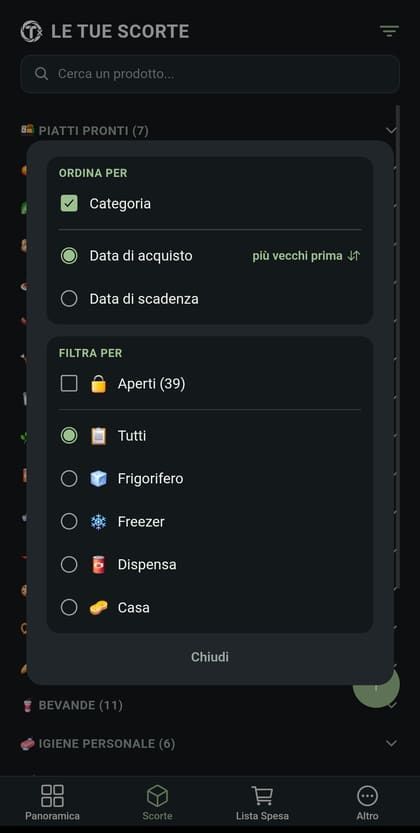
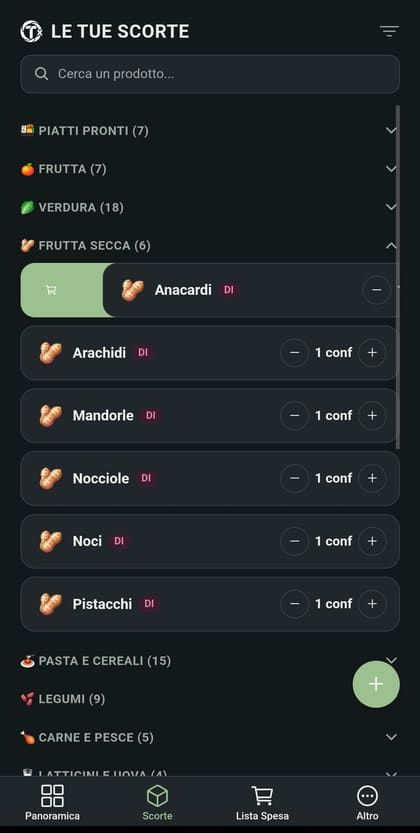
Slide dedicate: Filtri e ordinamento, Aggiungi prodotto, screenshot Scansione prodotto (#222)
- Ripristinato lo screenshot originale della slide "Scorte" (lista
  prodotti), spostando il pannello filtri/ordinamento in una slide
  separata "Filtri e ordinamento" subito dopo - erano due cose diverse,
  non dovevano condividere la stessa slide.
- Nuova slide "Aggiungi prodotto" con lo screenshot del form "Nuovo
  prodotto" (zona, categoria, quantita', scadenza/consumare entro,
  prodotto aperto).
- La slide "Scansione prodotto", che finora aveva solo l'icona di
  fallback, ha ora lo screenshot reale del popup "Scansiona prodotto".

Claude-Session: https://claude.ai/code/session_0124KDiTTkTm4SeJm2jJDzTH

diff --git a/src/i18n/translations.ts b/src/i18n/translations.ts
@@ -1111,9 +1111,21 @@ const ENTRIES: Record<string, EntryTriple> = {
   },
   'household.guide.stock.title': { it: 'Scorte', en: 'Stock', es: 'Existencias' },
   'household.guide.stock.body': {
-    it: "L'inventario di casa diviso per zona (Frigo, Freezer, Dispensa...): aggiungi prodotti, regola le quantità con un tocco e tieni traccia di scadenze e apertura. Scorri un prodotto verso destra per aggiungerlo alla lista della spesa. Con l'icona in alto a destra ordini per categoria, data di acquisto o di scadenza, e filtri per zona o solo i prodotti aperti.",
-    en: 'Your home inventory split by zone (Fridge, Freezer, Pantry...): add products, adjust quantities with a tap, and track expiry and opened dates. Swipe a product right to add it to the shopping list. Use the icon top-right to sort by category, purchase date or expiry date, and filter by zone or only opened products.',
-    es: 'El inventario de casa dividido por zona (Nevera, Congelador, Despensa...): añade productos, ajusta cantidades con un toque y controla caducidad y apertura. Desliza un producto hacia la derecha para añadirlo a la lista de la compra. Con el icono arriba a la derecha ordenas por categoría, fecha de compra o de caducidad, y filtras por zona o solo los productos abiertos.',
+    it: "L'inventario di casa diviso per zona (Frigo, Freezer, Dispensa...): aggiungi prodotti, regola le quantità con un tocco e tieni traccia di scadenze e apertura. Scorri un prodotto verso destra per aggiungerlo alla lista della spesa.",
+    en: 'Your home inventory split by zone (Fridge, Freezer, Pantry...): add products, adjust quantities with a tap, and track expiry and opened dates. Swipe a product right to add it to the shopping list.',
+    es: 'El inventario de casa dividido por zona (Nevera, Congelador, Despensa...): añade productos, ajusta cantidades con un toque y controla caducidad y apertura. Desliza un producto hacia la derecha para añadirlo a la lista de la compra.',
+  },
+  'household.guide.addProduct.title': { it: 'Aggiungi prodotto', en: 'Add product', es: 'Añadir producto' },
+  'household.guide.addProduct.body': {
+    it: 'Per aggiungere un prodotto scegli nome, zona, categoria e quantità; imposta la scadenza (o "Consumare entro" per i piatti pronti) e, se vuoi, segna "Prodotto aperto" per un promemoria di quando consumarlo. L\'icona fotocamera in alto compila tutto da una foto.',
+    en: 'To add a product, pick its name, zone, category and quantity; set the expiry date (or "Consume within" for ready meals) and, if you like, tick "Opened" for a reminder of when to use it. The camera icon at the top fills it all in from a photo.',
+    es: 'Para añadir un producto elige nombre, zona, categoría y cantidad; pon la fecha de caducidad (o "Consumir en" para platos preparados) y, si quieres, marca "Abierto" para un recordatorio de cuándo consumirlo. El icono de la cámara arriba lo rellena todo a partir de una foto.',
+  },
+  'household.guide.filters.title': { it: 'Filtri e ordinamento', en: 'Filters and sorting', es: 'Filtros y orden' },
+  'household.guide.filters.body': {
+    it: "Nelle Scorte, l'icona in alto a destra apre il menu per ordinare per categoria, data di acquisto o di scadenza, e per filtrare per zona o solo i prodotti aperti.",
+    en: 'In Stock, the icon top-right opens the menu to sort by category, purchase date or expiry date, and to filter by zone or only opened products.',
+    es: 'En Existencias, el icono arriba a la derecha abre el menú para ordenar por categoría, fecha de compra o de caducidad, y para filtrar por zona o solo los productos abiertos.',
   },
   'household.guide.shopping.title': { it: 'Lista della spesa', en: 'Shopping list', es: 'Lista de la compra' },
   'household.guide.shopping.body': {

diff --git a/src/components/AppGuideModal.tsx b/src/components/AppGuideModal.tsx
@@ -80,6 +80,24 @@ const GUIDE_SLIDES: GuideSlideDef[] = [
     imageDark: require('../../assets/guide/stock-dark.jpg'),
   },
   {
+    key: 'addProduct',
+    icon: 'create-outline',
+    badgeIcon: 'time-outline',
+    titleKey: 'household.guide.addProduct.title',
+    bodyKey: 'household.guide.addProduct.body',
+    imageLight: require('../../assets/guide/add-product-light.jpg'),
+    imageDark: require('../../assets/guide/add-product-dark.jpg'),
+  },
+  {
+    key: 'filters',
+    icon: 'funnel-outline',
+    badgeIcon: 'swap-vertical-outline',
+    titleKey: 'household.guide.filters.title',
+    bodyKey: 'household.guide.filters.body',
+    imageLight: require('../../assets/guide/filters-light.jpg'),
+    imageDark: require('../../assets/guide/filters-dark.jpg'),
+  },
+  {
     key: 'shopping',
     icon: 'cart-outline',
     badgeIcon: 'checkmark-done-outline',
@@ -98,7 +116,15 @@ const GUIDE_SLIDES: GuideSlideDef[] = [
     imageDark: require('../../assets/guide/purchased-dark.jpg'),
   },
   { key: 'receiptScan', icon: 'receipt-outline', badgeIcon: 'camera-outline', titleKey: 'household.guide.receiptScan.title', bodyKey: 'household.guide.receiptScan.body' },
-  { key: 'productScan', icon: 'pricetag-outline', badgeIcon: 'camera-outline', titleKey: 'household.guide.productScan.title', bodyKey: 'household.guide.productScan.body' },
+  {
+    key: 'productScan',
+    icon: 'pricetag-outline',
+    badgeIcon: 'camera-outline',
+    titleKey: 'household.guide.productScan.title',
+    bodyKey: 'household.guide.productScan.body',
+    imageLight: require('../../assets/guide/product-scan-light.jpg'),
+    imageDark: require('../../assets/guide/product-scan-dark.jpg'),
+  },
   { key: 'cleaning', icon: 'sparkles-outline', badgeIcon: 'calendar-outline', titleKey: 'household.guide.cleaning.title', bodyKey: 'household.guide.cleaning.body' },
   { key: 'waste', icon: 'trash-outline', badgeIcon: 'refresh-outline', titleKey: 'household.guide.waste.title', bodyKey: 'household.guide.waste.body' },
   { key: 'expenses', icon: 'cash-outline', badgeIcon: 'people-outline', titleKey: 'household.guide.expenses.title', bodyKey: 'household.guide.expenses.body' },
